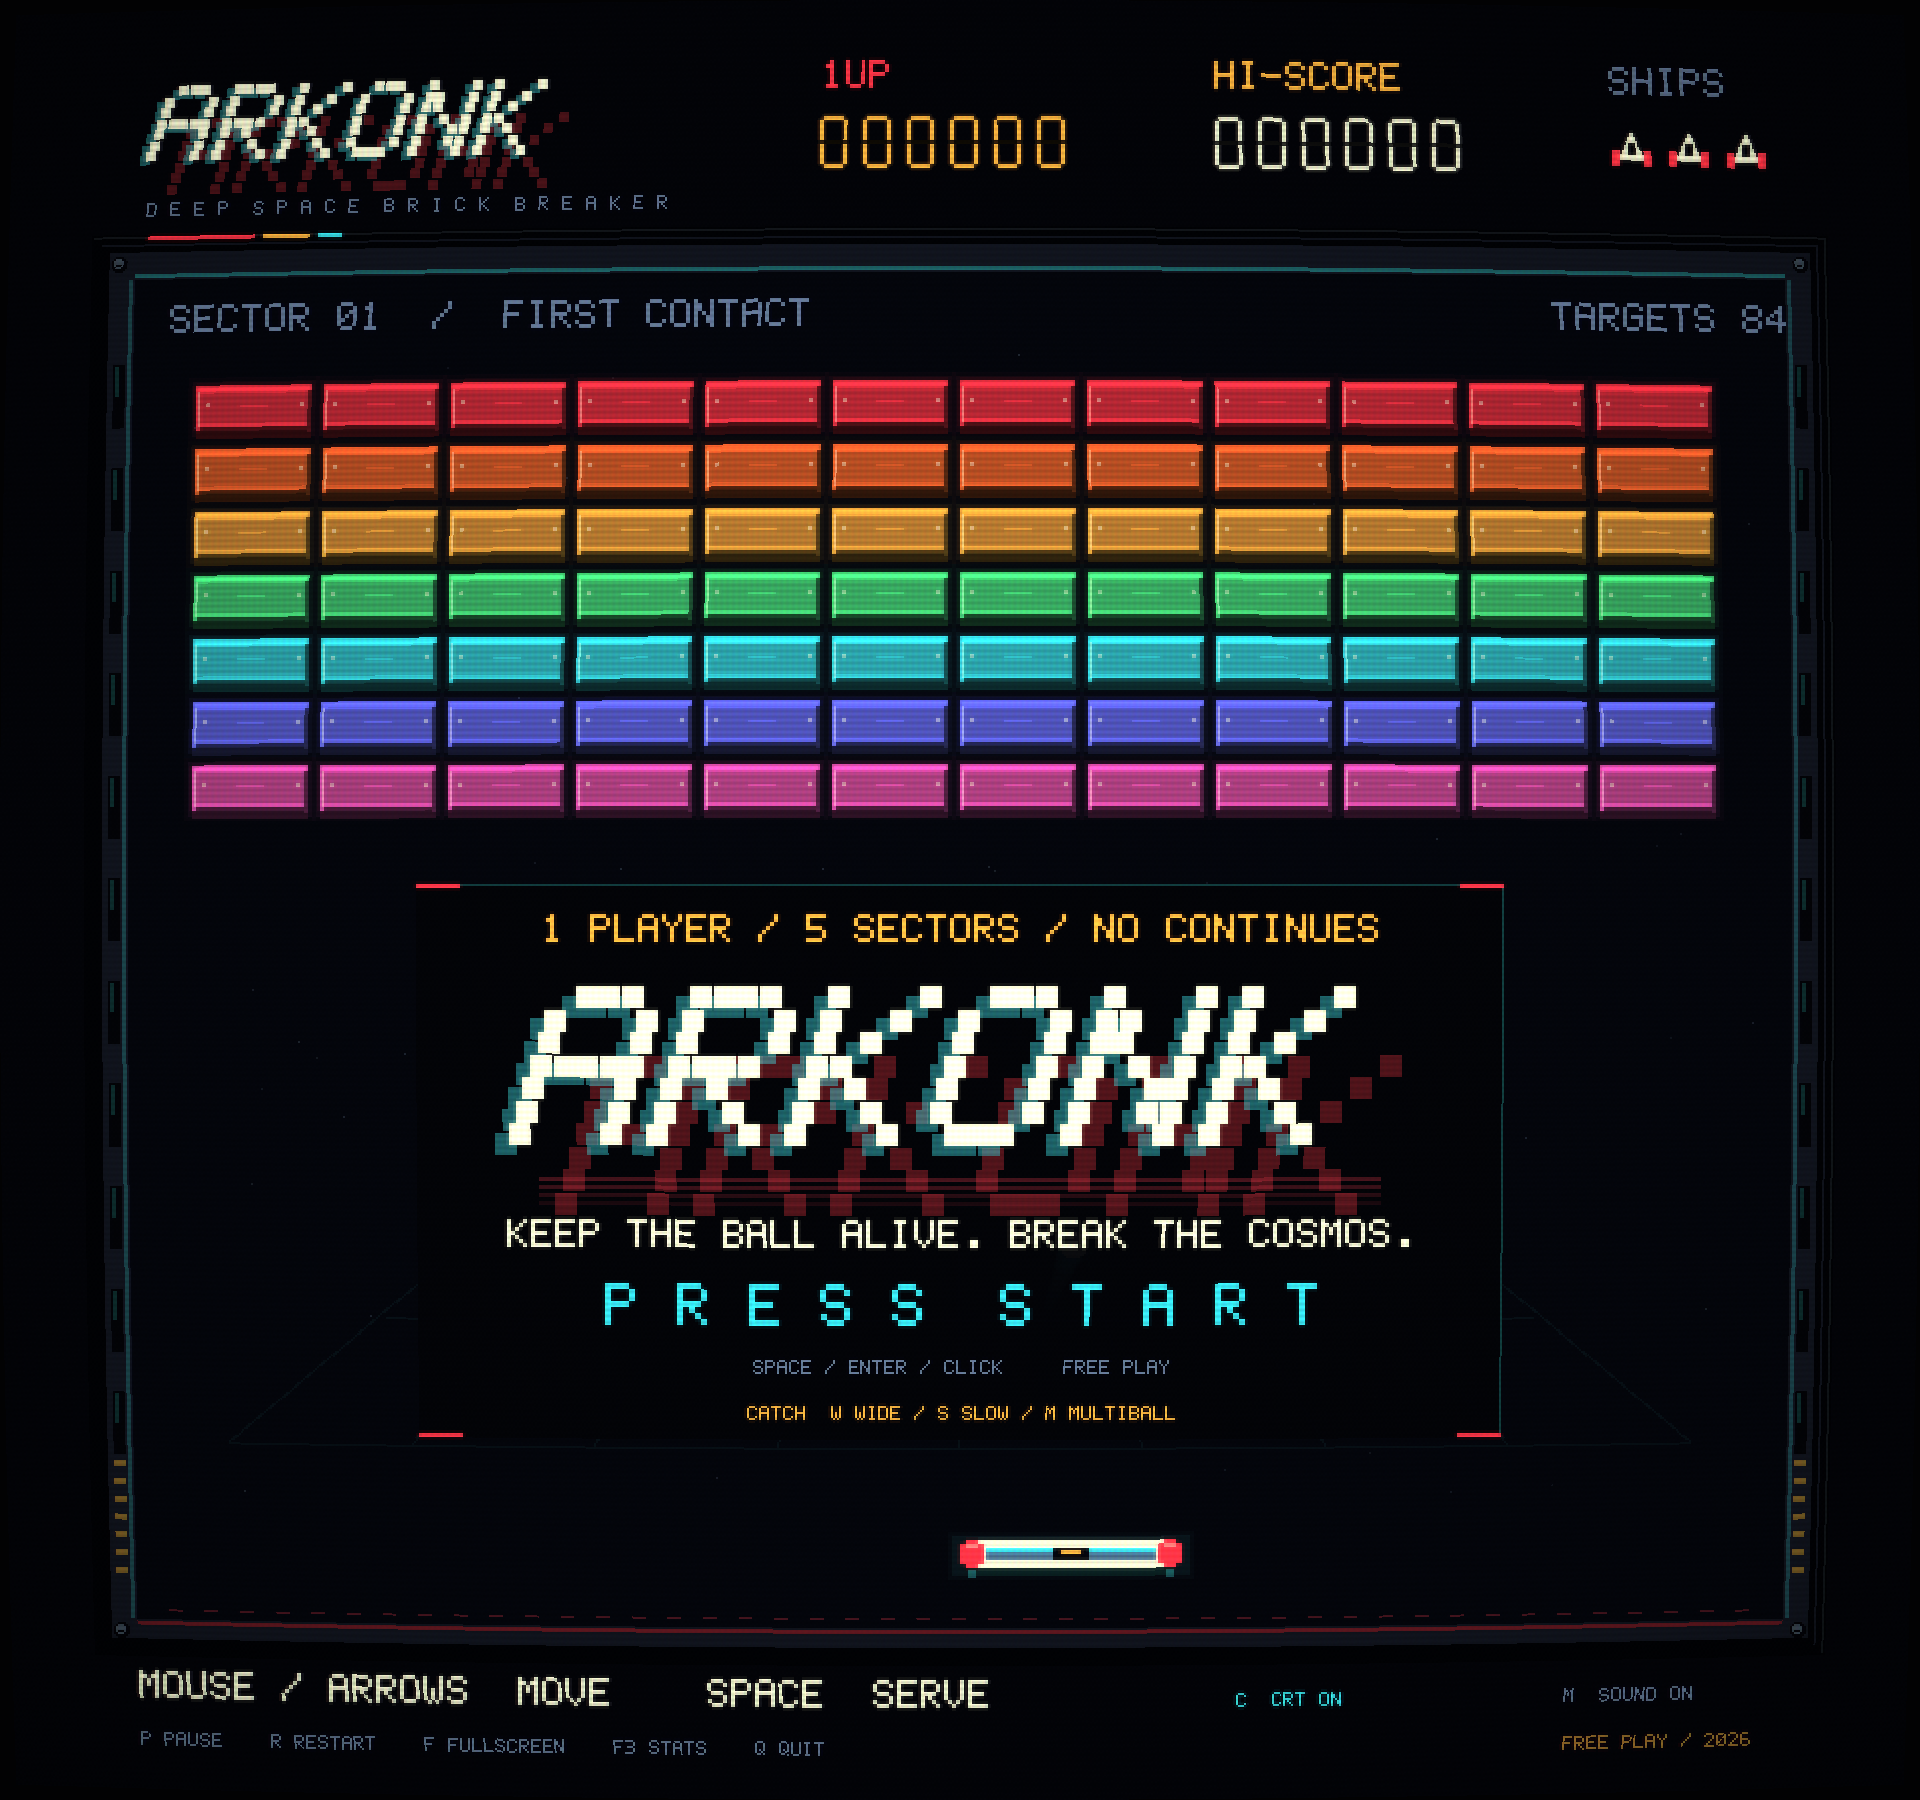
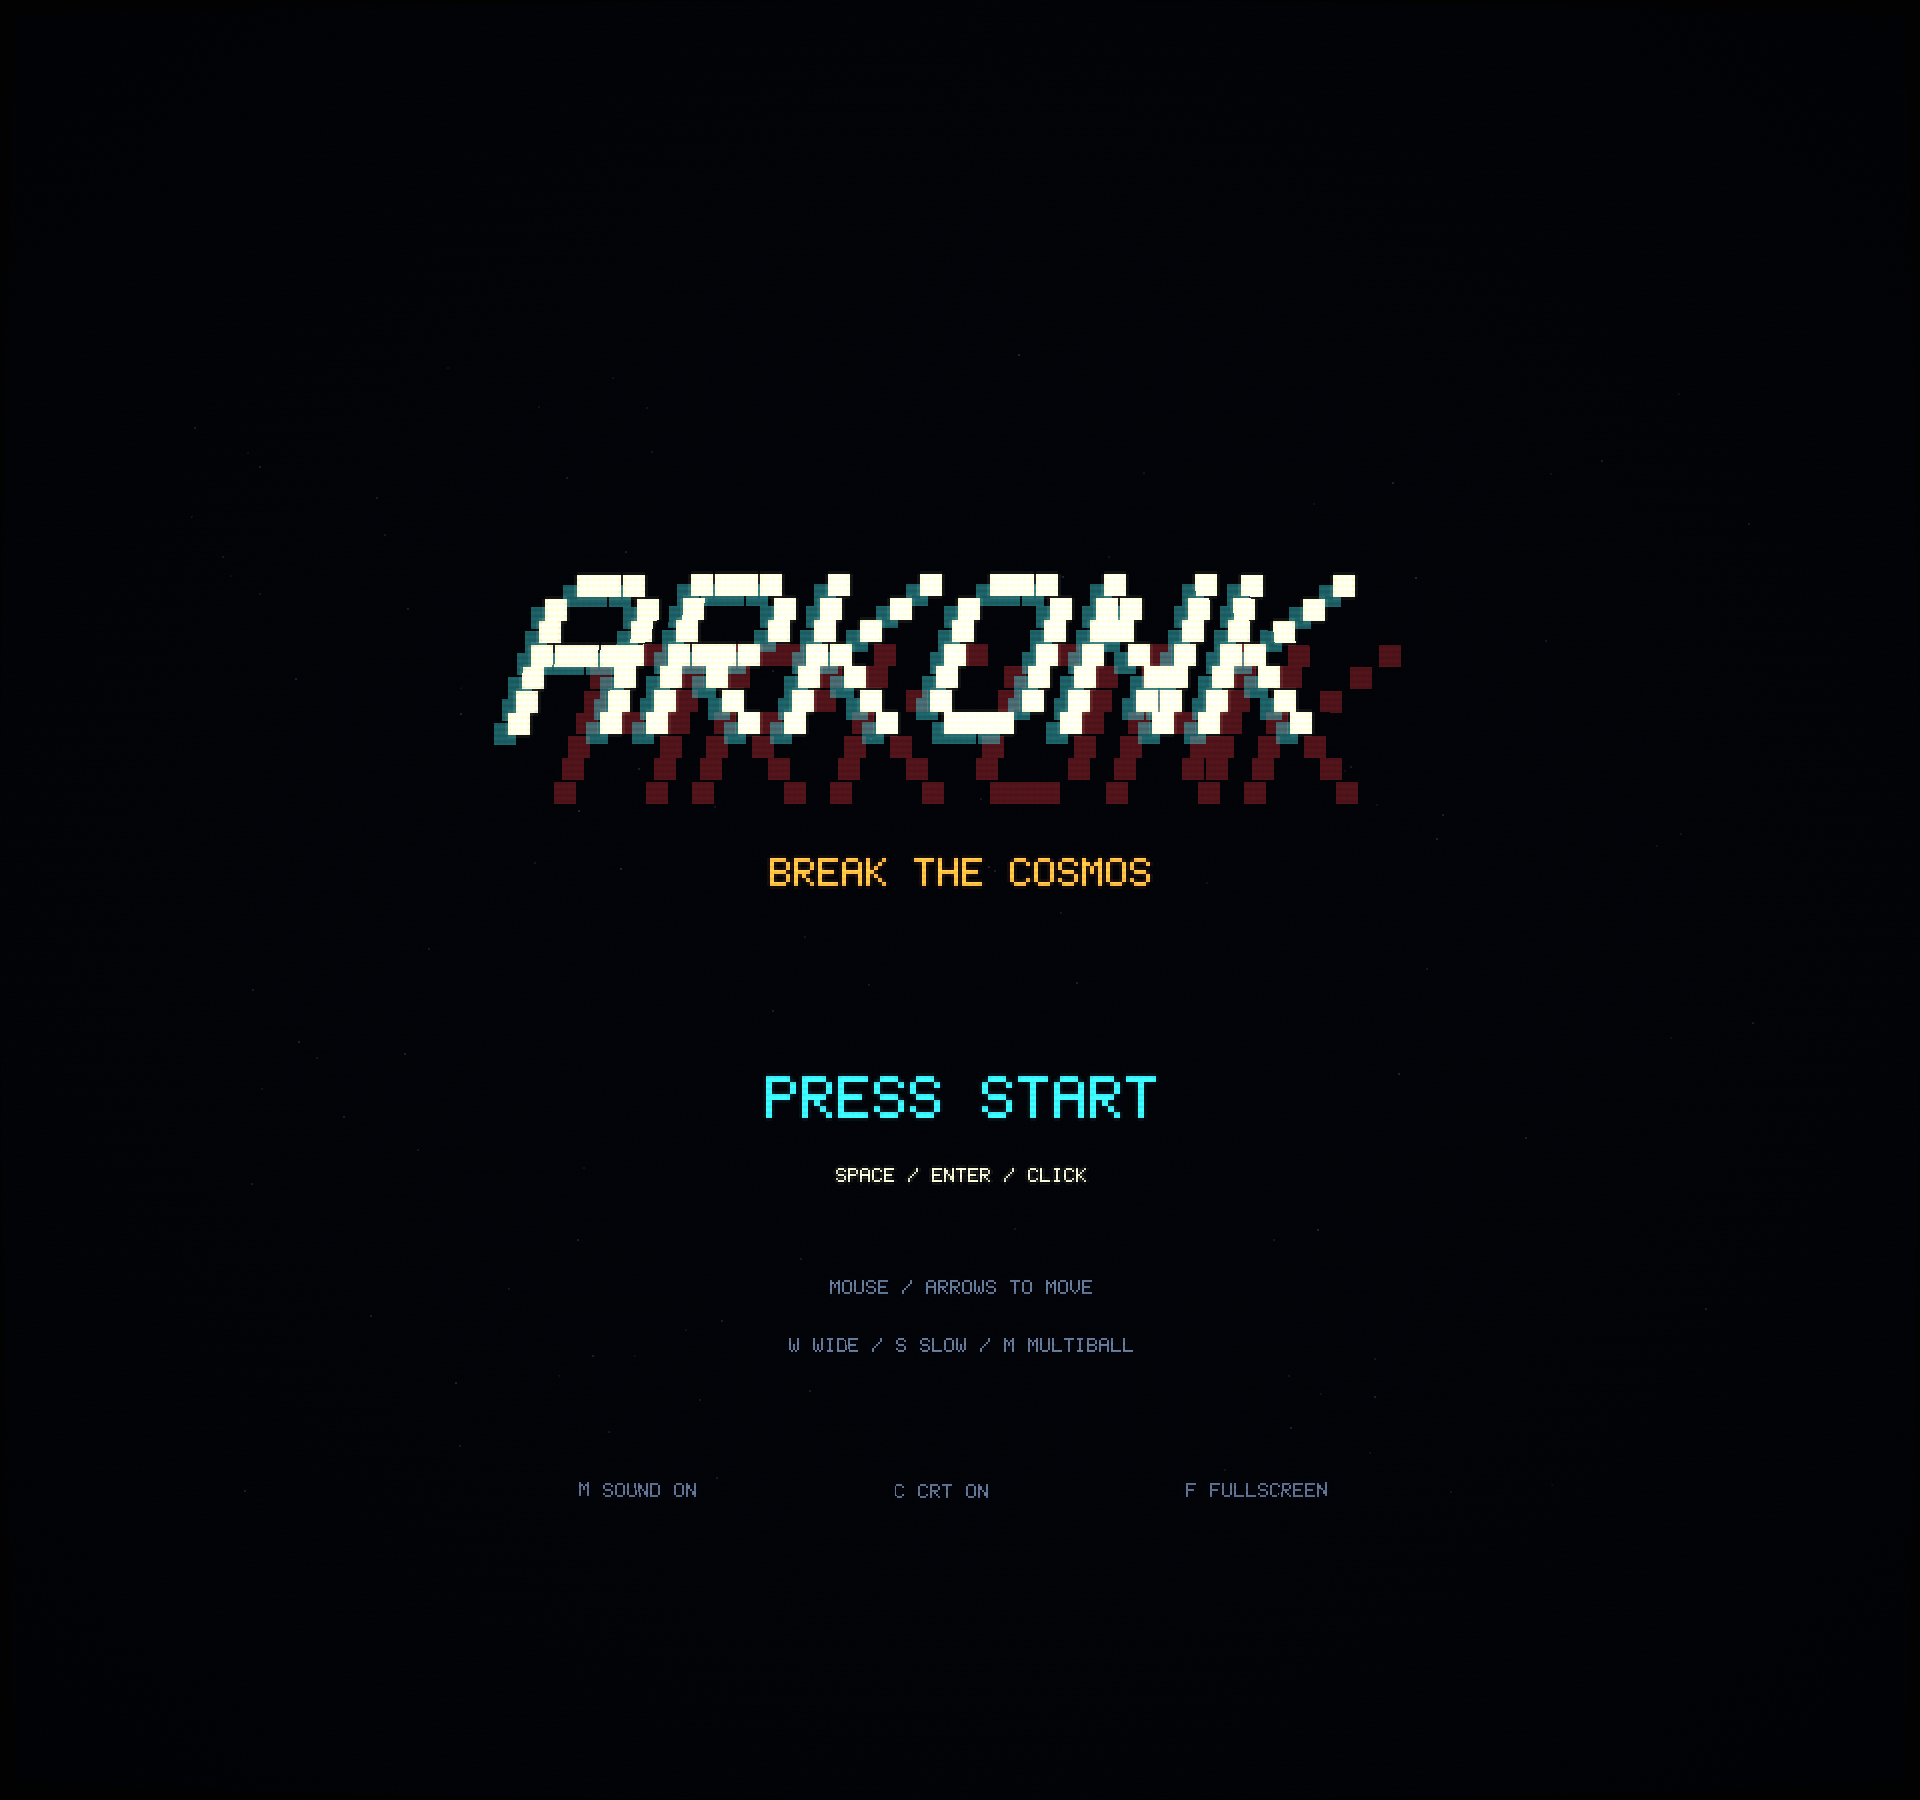
Simplify arcade UI and reserve the marquee for menus

diff --git a/src/render.rs b/src/render.rs
@@ -314,7 +314,13 @@ impl Renderer {
         self.crt.begin();
         let v = View::scene(&self.font);
         clear_background(BG);
-        self.cabinet(&v);
+        if !started {
+            self.background(&v);
+            self.attract(&v, high, muted, crt);
+            self.crt.present(screen.x, screen.y, screen.scale, crt);
+            return;
+        }
+        self.playfield(&v);
         self.background(&v);
         self.bricks(&v, game);
         self.effects(&v, game);
@@ -344,7 +350,6 @@ impl Renderer {
         }
         // Keep font-atlas work together after the geometry batches.
         self.hud(&v, game, high);
-        self.footer(&v, muted, crt);
         for drop in &game.drops {
             if drop.active {
                 v.text(
@@ -377,10 +382,10 @@ impl Renderer {
             let _ = write!(self.scratch, "SLOW {:02.0}", game.slow_time.ceil());
         }
         v.centered(&self.scratch, 739.0, 12.0, CYAN);
-        if !started {
-            self.attract(&v);
-        } else if paused {
-            self.overlay(&v, "P A U S E", "P / ESC / SPACE TO RESUME", CYAN);
+        if paused {
+            self.overlay(&v, "PAUSED", "SPACE / P / ESC TO RESUME", CYAN);
+            self.options(&v, muted, crt, 667.0);
+            v.centered("R RESTART / Q QUIT", 696.0, 11.0, DIM);
         } else {
             match game.phase {
                 Phase::Ready => {
@@ -407,6 +412,18 @@ impl Renderer {
                 Phase::Playing => {}
             }
         }
+        if !paused && game.phase == Phase::Playing {
+            self.scratch.clear();
+            let _ = write!(self.scratch, "SECTOR 0{}", game.level + 1);
+            v.text(&self.scratch, LEFT, BOTTOM + 34.0, 11.0, opacity(DIM, 0.65));
+            v.text(
+                "P PAUSE",
+                RIGHT - PixelFont::width("P PAUSE", 11.0),
+                BOTTOM + 34.0,
+                11.0,
+                opacity(DIM, 0.65),
+            );
+        }
         if let Some(perf) = perf {
             v.rect(80.0, 440.0, 416.0, 184.0, opacity(BG, 0.97));
             v.frame(80.0, 440.0, 416.0, 184.0, shade(CYAN, 0.4));
@@ -418,70 +435,22 @@ impl Renderer {
         self.crt.present(screen.x, screen.y, screen.scale, crt);
     }
 
-    fn cabinet(&self, v: &View) {
-        v.rect(
-            42.0,
-            113.0,
-            876.0,
-            720.0,
-            Color::new(0.006, 0.009, 0.02, 1.0),
-        );
-        v.frame(43.0, 114.0, 874.0, 718.0, shade(DIM, 0.18));
-        v.frame(47.0, 118.0, 866.0, 710.0, METAL);
-        v.rect(51.0, 122.0, 858.0, 702.0, METAL);
+    fn playfield(&self, v: &View) {
         v.rect(LEFT, TOP, RIGHT - LEFT, BOTTOM - TOP, GLASS);
-        for side in [LEFT - 3.0, RIGHT + 1.0] {
-            v.rect(
-                side,
-                TOP,
-                2.0,
-                BOTTOM - TOP,
-                opacity(CYAN, 0.27 + self.wall_flash * 3.0),
-            );
-        }
-        v.rect(LEFT, TOP - 3.0, RIGHT - LEFT, 2.0, shade(CYAN, 0.48));
-        v.rect(LEFT, BOTTOM + 1.0, RIGHT - LEFT, 2.0, shade(RED, 0.42));
-        for x in [54.0, 900.0] {
-            for y in (179..714).step_by(52) {
-                v.rect(x, y as f32, 6.0, 32.0, BG);
-                v.rect(x + 1.0, y as f32 + 1.0, 2.0, 15.0, shade(CYAN, 0.22));
-            }
-            for y in (734..795).step_by(9) {
-                v.rect(x, y as f32, 6.0, 3.0, shade(AMBER, 0.56));
-            }
-        }
-        for x in [56.0, 904.0] {
-            for y in [128.0, 820.0] {
-                v.circle(V2::new(x, y), 4.0, BG);
-                v.circle(V2::new(x - 0.5, y - 0.5), 2.5, shade(DIM, 0.6));
-                v.line(V2::new(x - 1.5, y), V2::new(x + 1.5, y), 1.0, BG);
-            }
-        }
-        for x in (80..886).step_by(18) {
-            v.rect(x as f32, BOTTOM - 5.0, 7.0, 1.0, opacity(RED, 0.30));
-        }
+        let edge = opacity(CYAN, 0.15 + self.wall_flash * 2.0);
+        v.line(V2::new(LEFT, TOP), V2::new(LEFT, BOTTOM), 1.0, edge);
+        v.line(V2::new(RIGHT, TOP), V2::new(RIGHT, BOTTOM), 1.0, edge);
+        v.line(V2::new(LEFT, TOP), V2::new(RIGHT, TOP), 1.0, edge);
+        v.line(
+            V2::new(LEFT, BOTTOM),
+            V2::new(RIGHT, BOTTOM),
+            1.0,
+            opacity(RED, 0.15),
+        );
     }
     fn background(&self, v: &View) {
         for &(pos, light) in &self.stars {
             v.rect(pos.x, pos.y, 1.0, 1.0, opacity(DIM, light));
-        }
-        let grid = Color::new(0.035, 0.073, 0.10, 1.0);
-        for x in (112..850).step_by(92) {
-            v.line(
-                V2::new(480.0 + (x as f32 - 480.0) * 0.12, 451.0),
-                V2::new(x as f32, 724.0),
-                1.0,
-                grid,
-            );
-        }
-        for y in [468.0, 489.0, 518.0, 556.0, 603.0, 660.0, 724.0] {
-            let span = (y - 430.0) / 294.0 * 368.0;
-            v.line(
-                V2::new(480.0 - span, y),
-                V2::new(480.0 + span, y),
-                1.0,
-                grid,
-            );
         }
     }
     fn bricks(&self, v: &View, game: &Game) {
@@ -599,97 +568,51 @@ impl Renderer {
             v.rect(pos.x - 3.0, pos.y - 3.0, 3.0, 3.0, WHITE);
         }
     }
-    fn hud(&mut self, v: &View, game: &Game, high: u32) {
-        v.logo(68.0, 38.0, 5.5);
-        v.text(
-            "D E E P  S P A C E  B R I C K  B R E A K E R",
-            69.0,
-            104.0,
-            10.0,
-            DIM,
-        );
-        v.text("1UP", 410.0, 44.0, 14.0, RED);
-        v.digits(game.score, 409.0, 58.0, AMBER);
-        v.text("HI-SCORE", 609.0, 44.0, 14.0, AMBER);
-        v.digits(high.max(game.score), 609.0, 58.0, INK);
-        v.text("SHIPS", 809.0, 44.0, 13.0, DIM);
+    fn hud(&self, v: &View, game: &Game, high: u32) {
+        // A sparse arcade scoreboard: gameplay information, aligned to the field.
+        v.text("1UP", 96.0, 66.0, 11.0, RED);
+        v.digits(game.score, 96.0, 80.0, AMBER);
+        v.text("HI-SCORE", 416.0, 66.0, 11.0, DIM);
+        v.digits(high.max(game.score), 416.0, 80.0, INK);
         for i in 0..3 {
-            v.ship(810.0 + i as f32 * 29.0, 62.0, i < game.lives);
+            v.ship(790.0 + i as f32 * 29.0, 85.0, i < game.lives);
         }
-        v.rect(70.0, 114.0, 54.0, 2.0, RED);
-        v.rect(128.0, 114.0, 24.0, 2.0, AMBER);
-        v.rect(156.0, 114.0, 12.0, 2.0, CYAN);
-        self.scratch.clear();
-        let _ = write!(
-            self.scratch,
-            "SECTOR 0{}  /  {}",
-            game.level + 1,
-            LEVELS[game.level]
-        );
-        v.text(&self.scratch, 82.0, 163.0, 12.0, DIM);
-        self.scratch.clear();
-        let _ = write!(self.scratch, "TARGETS {:02}", game.remaining);
-        v.text(&self.scratch, 778.0, 163.0, 12.0, DIM);
     }
-    fn footer(&self, v: &View, muted: bool, crt: bool) {
+    fn options(&self, v: &View, muted: bool, crt: bool, y: f32) {
         v.text(
-            "MOUSE / ARROWS  MOVE    SPACE  SERVE",
-            64.0,
-            854.0,
-            12.0,
-            INK,
-        );
-        v.text(
-            "P PAUSE    R RESTART    F FULLSCREEN    F3 STATS    Q QUIT",
-            64.0,
-            878.0,
-            10.0,
-            DIM,
-        );
-        v.text(
-            if crt { "C  CRT ON" } else { "C  CRT OFF" },
-            620.0,
-            854.0,
-            11.0,
-            CYAN,
-        );
-        v.text(
-            if muted { "M  SOUND OFF" } else { "M  SOUND ON" },
-            786.0,
-            854.0,
+            if muted { "M SOUND OFF" } else { "M SOUND ON" },
+            288.0,
+            y,
             11.0,
             DIM,
         );
-        v.text("FREE PLAY / 2026", 786.0, 878.0, 10.0, shade(AMBER, 0.7));
+        v.text(
+            if crt { "C CRT ON" } else { "C CRT OFF" },
+            447.0,
+            y,
+            11.0,
+            DIM,
+        );
+        v.text("F FULLSCREEN", 594.0, y, 11.0, DIM);
     }
-    fn attract(&self, v: &View) {
-        v.rect(208.0, 442.0, 544.0, 278.0, opacity(BG, 0.97));
-        v.frame(208.0, 442.0, 544.0, 278.0, shade(CYAN, 0.30));
-        for x in [208.0, 730.0] {
-            v.rect(x, 442.0, 22.0, 2.0, RED);
-            v.rect(x, 718.0, 22.0, 2.0, RED);
+    fn attract(&mut self, v: &View, high: u32, muted: bool, crt: bool) {
+        // The marquee belongs to the title screen, not the in-game scoreboard.
+        v.logo(254.0, 287.0, 11.5);
+        v.centered("BREAK THE COSMOS", 443.0, 14.0, AMBER);
+        if high > 0 {
+            self.scratch.clear();
+            let _ = write!(self.scratch, "HI-SCORE {high:06}");
+            v.centered(&self.scratch, 488.0, 11.0, DIM);
         }
-        v.centered("1 PLAYER / 5 SECTORS / NO CONTINUES", 471.0, 12.0, AMBER);
-        v.logo(254.0, 493.0, 11.5);
-        for i in 0..4 {
-            v.rect(
-                269.0,
-                589.0 + i as f32 * 4.0,
-                422.0,
-                2.0,
-                opacity(RED, 0.3 - i as f32 * 0.065),
-            );
-        }
-        v.centered("KEEP THE BALL ALIVE. BREAK THE COSMOS.", 624.0, 14.0, INK);
-        let pulse = 0.65 + 0.35 * (get_time() as f32 * 3.0).sin();
-        v.centered("P R E S S  S T A R T", 663.0, 22.0, opacity(CYAN, pulse));
-        v.centered("SPACE / ENTER / CLICK     FREE PLAY", 687.0, 11.0, DIM);
-        v.centered("CATCH  W WIDE / S SLOW / M MULTIBALL", 710.0, 11.0, AMBER);
+        let pulse = 0.75 + 0.25 * (get_time() as f32 * 3.0).sin();
+        v.centered("PRESS START", 559.0, 22.0, opacity(CYAN, pulse));
+        v.centered("SPACE / ENTER / CLICK", 591.0, 11.0, INK);
+        v.centered("MOUSE / ARROWS TO MOVE", 647.0, 11.0, DIM);
+        v.centered("W WIDE / S SLOW / M MULTIBALL", 676.0, 11.0, DIM);
+        self.options(v, muted, crt, 749.0);
     }
     fn overlay(&self, v: &View, title: &str, subtitle: &str, color: Color) {
         v.rect(192.0, 494.0, 576.0, 155.0, opacity(BG, 0.97));
-        v.frame(192.0, 494.0, 576.0, 155.0, shade(color, 0.35));
-        v.rect(446.0, 513.0, 68.0, 2.0, color);
         v.centered(title, 568.0, 29.0, color);
         v.centered(subtitle, 611.0, 13.0, INK);
     }

diff --git a/README.md b/README.md
@@ -4,9 +4,11 @@ A compact Arkanoid-style game written in Rust. Five brick layouts, three lives,
 angle-controlled paddle bounces, reinforced bricks, combo scoring, three power-ups,
 particles, ball trails, synthesized sound, and a saved best score.
 
-Late-80s space-cabinet art direction: a slanted pixel marquee, amber score displays,
+Late-80s CRT arcade art direction: a menu-only pixel marquee, amber score displays,
 beveled spectrum bricks, a silver-and-red paddle, phosphor trails, and curved CRT
-glass. [See the start screen](docs/attract.png).
+glass. Gameplay keeps a sparse score/lives display and thin playfield edges;
+controls and settings live on the start and pause screens.
+[See the start screen](docs/attract.png).
 
 ![ARKONK in play](docs/screenshot.png)
 
